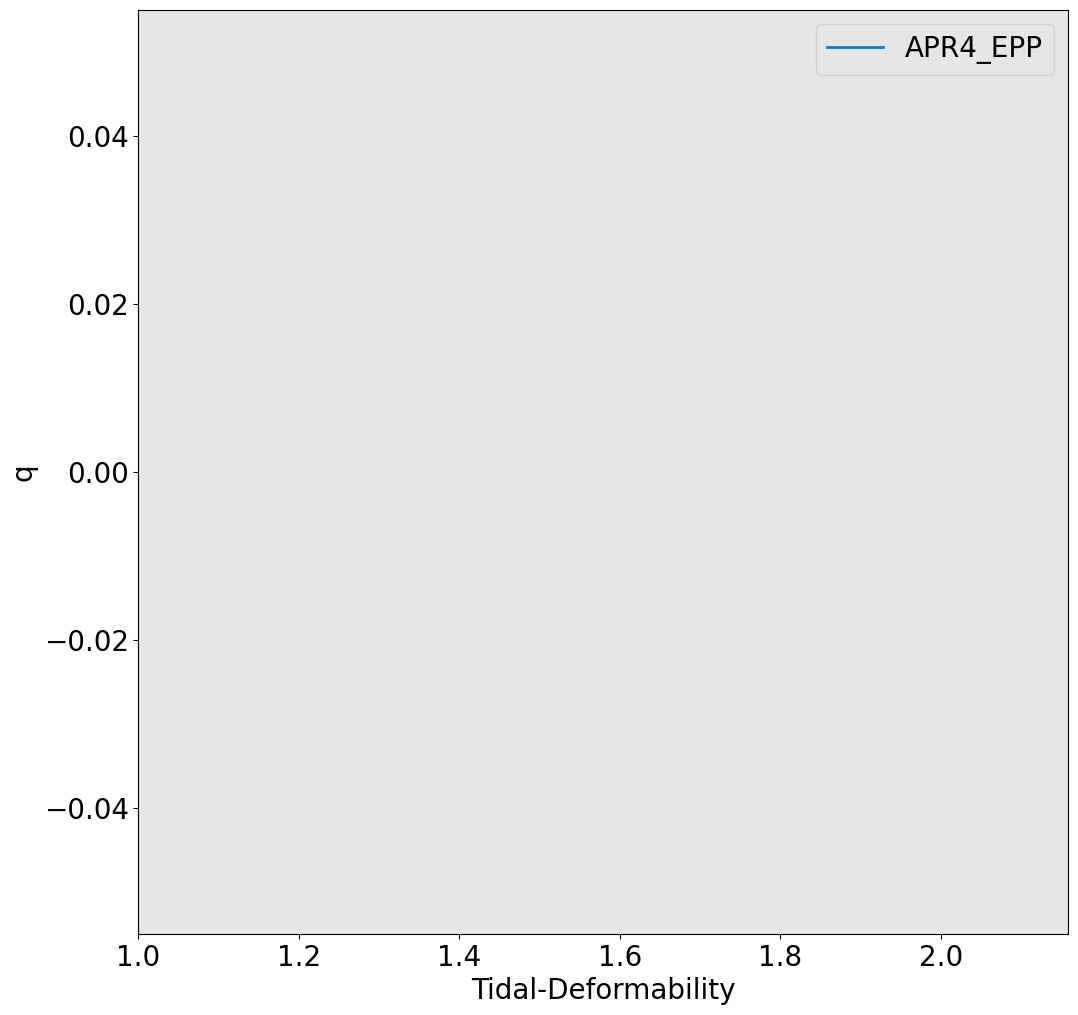
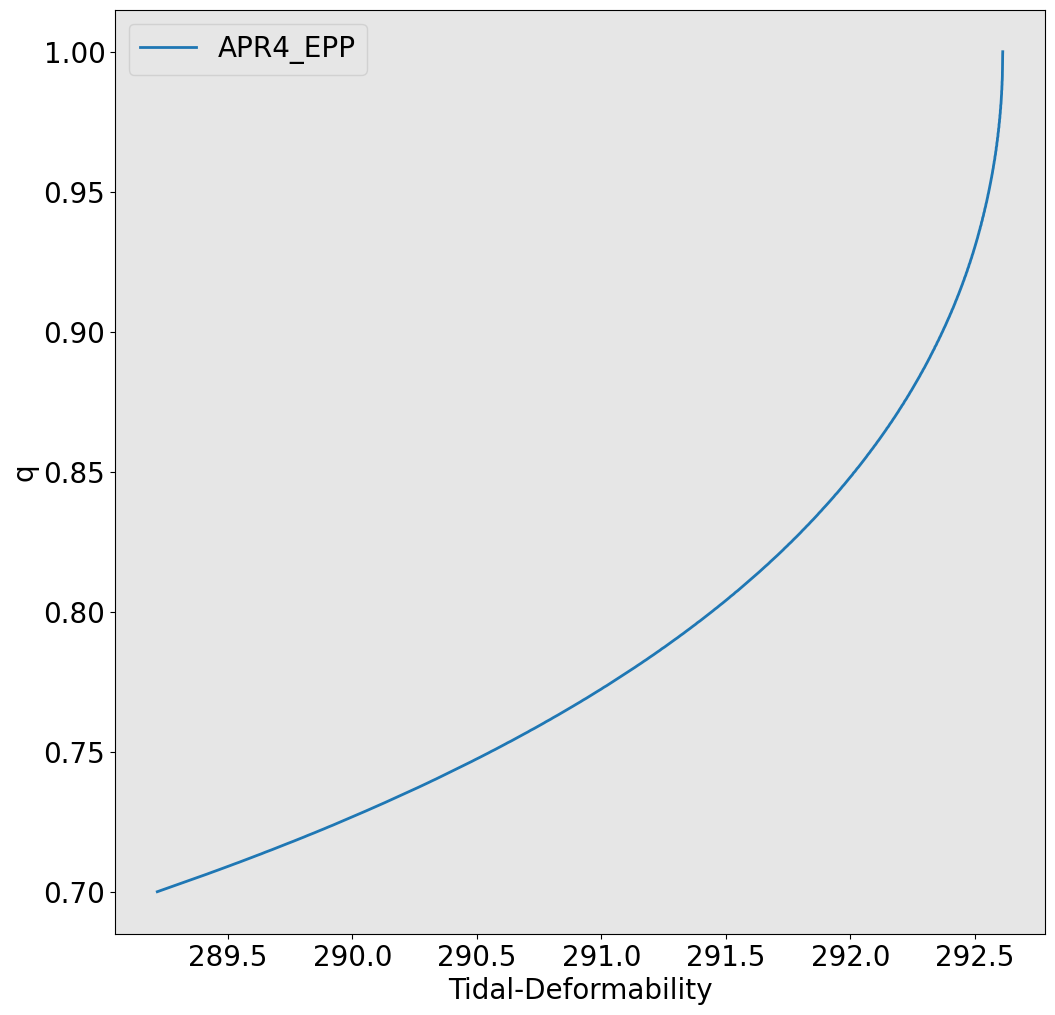
Astronomy Club 2023 plots10

diff --git a/joint_inference/development/Spring2023Presentations.py b/joint_inference/development/Spring2023Presentations.py
@@ -122,7 +122,8 @@ def namedEoS_lines(EoS_Name):
     q_min, q_max = 0.7, 1.0
     #mc = np.mean(self.data['mc_source'])
     mc = 1.187 # ran above line and got this.
-    minMass = lalsim.SimNeutronStarFamMinimumMass(fam)
+    #minMass = lalsim.SimNeutronStarFamMinimumMass(fam)
+    minMass = 0.8
     maxMass = lalsim.SimNeutronStarMaximumMass(fam)
     q = np.linspace(q_min, q_max, N)
 
@@ -140,7 +141,7 @@ def namedEoS_lines(EoS_Name):
 
     pl.plot(LambdaT, q, label=EoS_Name)
 
-    pl.xlim([min(working_masses),max(working_masses)])
+#    pl.xlim([min(LambdaT),max(LambdaT)])
     pl.xlabel("Tidal-Deformability")
     pl.ylabel("q")
     pl.legend()
